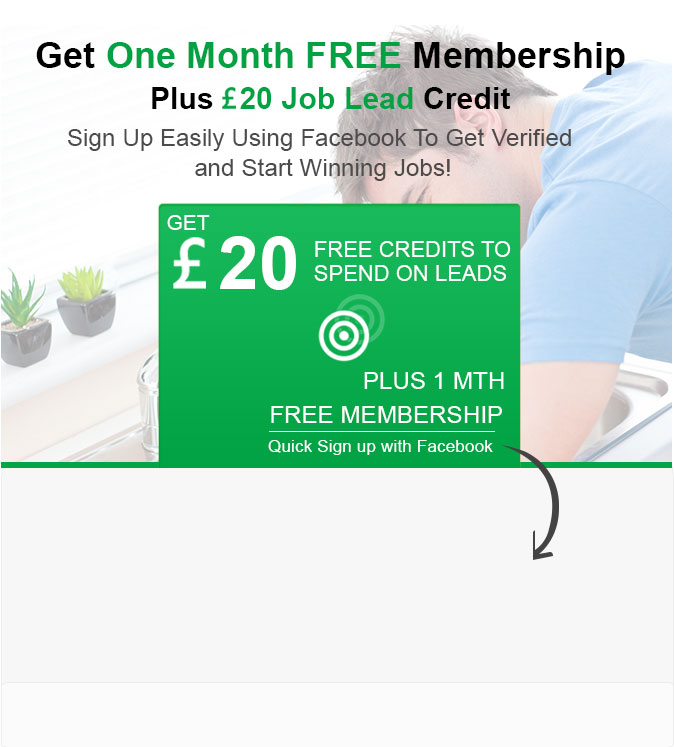
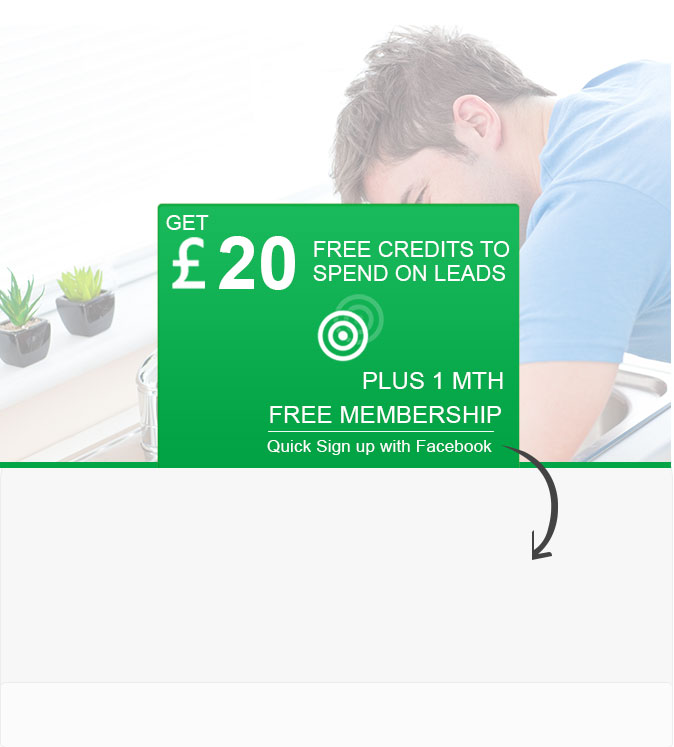
changes

diff --git a/css/signup.css b/css/signup.css
@@ -16,7 +16,7 @@ html.signup2 {
 }
 
 body {
-	padding: 0 30px 20px 30px;
+	padding: 20px 30px 20px 30px;
 }
 
 a {
@@ -103,6 +103,39 @@ html.signup2 .input {
 
 
 /*** STEP 1 ***/
+.step1 .headerContent {
+	position: absolute;
+	top: 30px;
+}
+
+.step1 .headerContent h1 {
+	color: #000000;
+	font-size: 36px;
+	text-align: center;
+	width: 100%;
+	margin: 0 auto;
+}
+
+.step1 .headerContent h2 {
+	color: #000000;
+	font-size: 30px;
+	text-align: center;
+	width: 100%;
+	margin: 15px auto 15px auto;
+}
+
+.step1 .headerContent h4 {
+	color: #4d4b4b;
+	font-size: 24px;
+	text-align: center;
+	max-width: 80%;
+	margin: 0 auto;
+}
+
+.step1 .headerContent .green {
+	color: #00a243;
+}
+	
 .step1 .fbContent {
 	width: 100%;
 	position: absolute;
@@ -145,6 +178,26 @@ html.signup2 .input {
 }
 
 /*** STEP 2 ***/
+.step2 .headerContent {
+	border-bottom: 1px solid #5773b1;
+	padding-bottom: 16px;
+	padding-left: 90px;
+	background: url(../images/signup/target.png) no-repeat left center;
+}
+
+.step2 h1 {
+	display: inline;
+	font-size: 50px;
+	color: #8d8d8d;
+	border-bottom: 2px solid #d9d7d7;
+}
+
+.step2 h3 {
+	font-size: 18px;
+	color: #999797;
+	margin-top: 14px;
+}
+
 .step2 .signupDetails {
 	width: 60%;
 	float: left;

diff --git a/signup/step-1.html b/signup/step-1.html
@@ -10,6 +10,11 @@
 <body>
 	<div id="wrapper" class="step1">
 		<img src="../images/signup/step1_background.jpg" class="img-responsive">
+		<div class="headerContent">
+			<h1 class="bold">Get <span class="green">One Month FREE</span> Membership</h1>
+			<h2 class="bold">Plus <span class="green">&pound; 20 Job Lead</span> Credit</h2>
+			<h4>Sign Up Easily Using Facebook To Get Verified and Start Winning Jobs!</h4>
+		</div>
 		<div class="fbContent">
 			<a href="step-3.html" class="facebookButton"><img src="../images/signup/facebook-boton.png" class="img-responsive"></a>
 			<p>We will never publish without permission</p>
@@ -26,6 +31,29 @@
 			   minFont :5,
 			   maxFont : 25
 			}
+	);
+	$('.bottomContent p').flowtype({
+		   minFont : 10,
+		   maxFont : 16
+		}
+	);
+	$('.headerContent h1').flowtype({
+		   minFont : 14,
+		   maxFont : 36,
+		   fontRatio : 18
+		}
+	);
+	$('.headerContent h2').flowtype({
+		   minFont : 12,
+		   maxFont : 30,
+		   fontRatio : 18
+		}
+	);
+	$('.headerContent h4').flowtype({
+		   minFont : 10,
+		   maxFont : 24,
+		   fontRatio : 18
+		}
 	);
 	</script>
 

diff --git a/signup/step-2.html b/signup/step-2.html
@@ -8,7 +8,10 @@
 </head>
 <body>
 	<div id="wrapper" class="step2">
-		<img src="../images/signup/step2_header.jpg" class="img-responsive">
+		<div class="headerContent">
+			<h1 class="droidFont">SIGN-UP</h1>
+			<h3 class="droidFont">You’re almost there...</h3>
+		</div>
 		<form action="#" method="post" class="clearfix">
 			<div class="signupDetails">
 				<p class="formText">Please complete your details:</p>

diff --git a/css/signup_media_queries.css b/css/signup_media_queries.css
@@ -1,4 +1,22 @@
 /*** MEDIA QUERYS **/
+@media screen and (max-width: 635px) {
+	.step1 .headerContent {
+		top: 5px;
+	}
+	.step1 .headerContent h2 {
+		margin: 10px auto 10px auto;
+	}
+}
+
+@media screen and (max-width: 550px) {
+	.step2 h1 {
+		font-size: 30px
+	}
+	.step2 h3 {
+		font-size: 14px
+	}
+}
+
 @media screen and (max-width: 620px) {
 	.step6  .right {
 		width: 100%;

diff --git a/css/magnific-popup.css b/css/magnific-popup.css
@@ -236,6 +236,7 @@ button::-moz-focus-inner {
     width: 100%;
     height: 100%;
     box-shadow: 0 0 8px rgba(0, 0, 0, 0.6);
+    border-radius: 6px;
     background: black; }
 
 /* Main image in popup */
